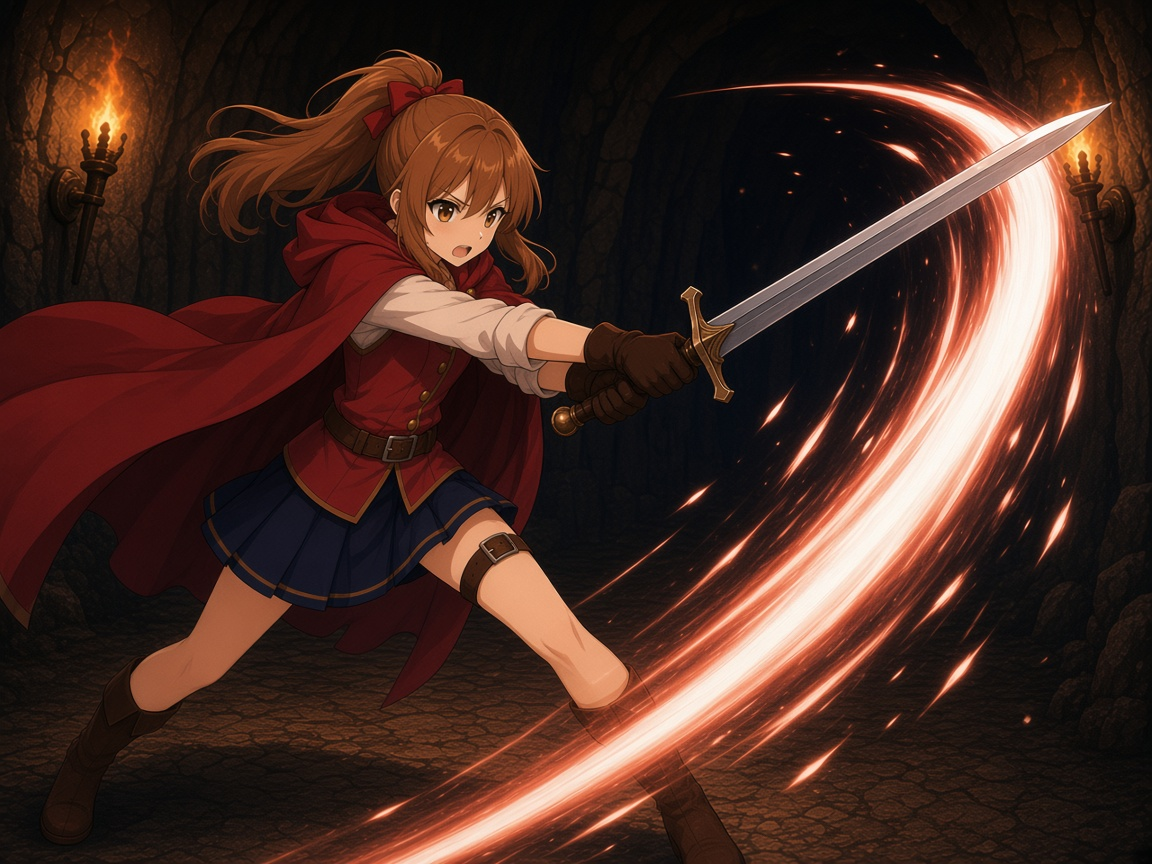
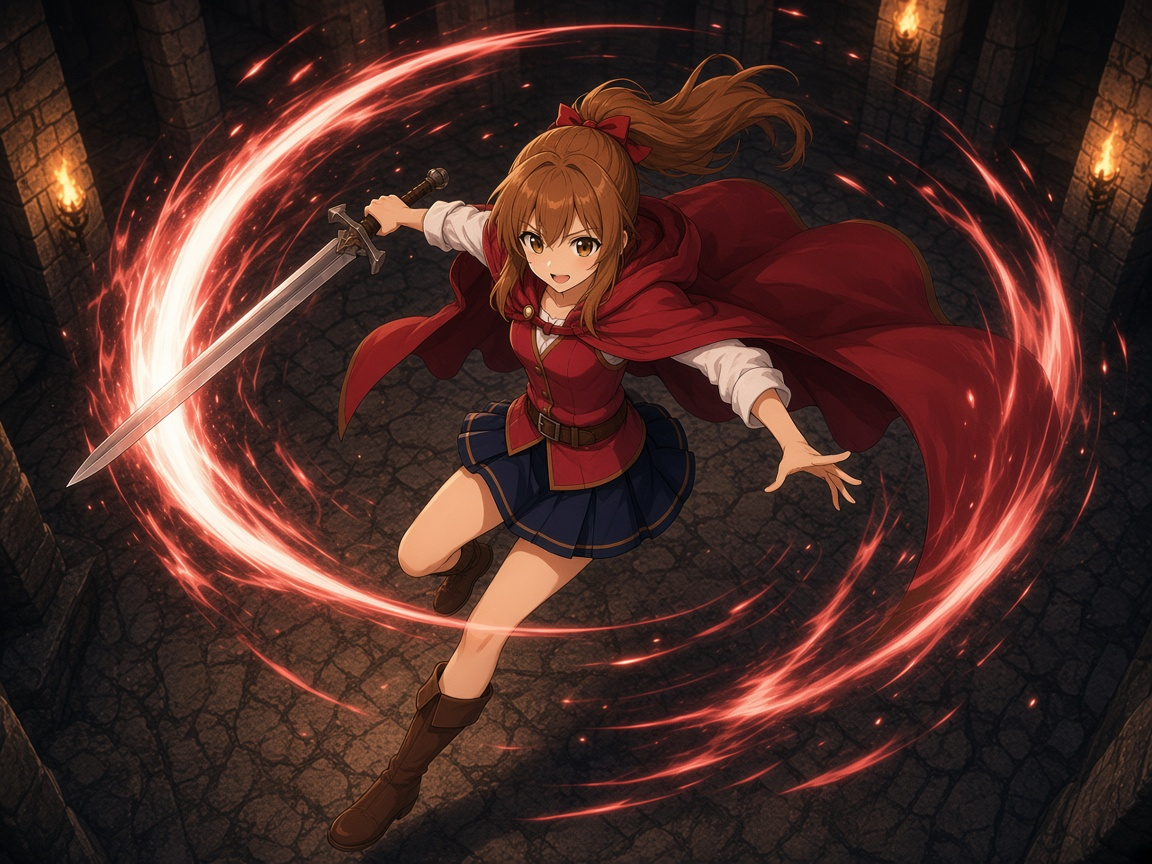
アタック（女）の案を、背面・見下ろし・手前飛び込みの3構図に差し替える。

diff --git a/index.html b/index.html
@@ -8722,9 +8722,9 @@
     const MADE_CARD_ARTS = [
       ["made-attack-m", "アタック（男）", "card-attack-m.jpg?v=1"],
       ["made-attack-f", "アタック（女）", "card-attack-f.jpg?v=1"],
-      ["made-attack-f-a", "アタック（女）案A 横薙ぎ", "card-attack-f-a.jpg?v=1"],
-      ["made-attack-f-b", "アタック（女）案B 上げ斬り", "card-attack-f-b.jpg?v=1"],
-      ["made-attack-f-c", "アタック（女）案C 振り下ろし", "card-attack-f-c.jpg?v=1"],
+      ["made-attack-f-a", "アタック（女）案A 背面の突き", "card-attack-f-a.jpg?v=2"],
+      ["made-attack-f-b", "アタック（女）案B 見下ろしの跳躍", "card-attack-f-b.jpg?v=2"],
+      ["made-attack-f-c", "アタック（女）案C 手前への飛び込み", "card-attack-f-c.jpg?v=2"],
       ["made-charge-m", "チャージアタック（男）", "card-charge-m.jpg?v=1"],
       ["made-charge-f", "チャージアタック（女）", "card-charge-f.jpg?v=1"],
       ["made-big-attack-m", "ビッグアタック（男）", "card-big-attack-m.jpg?v=1"],
